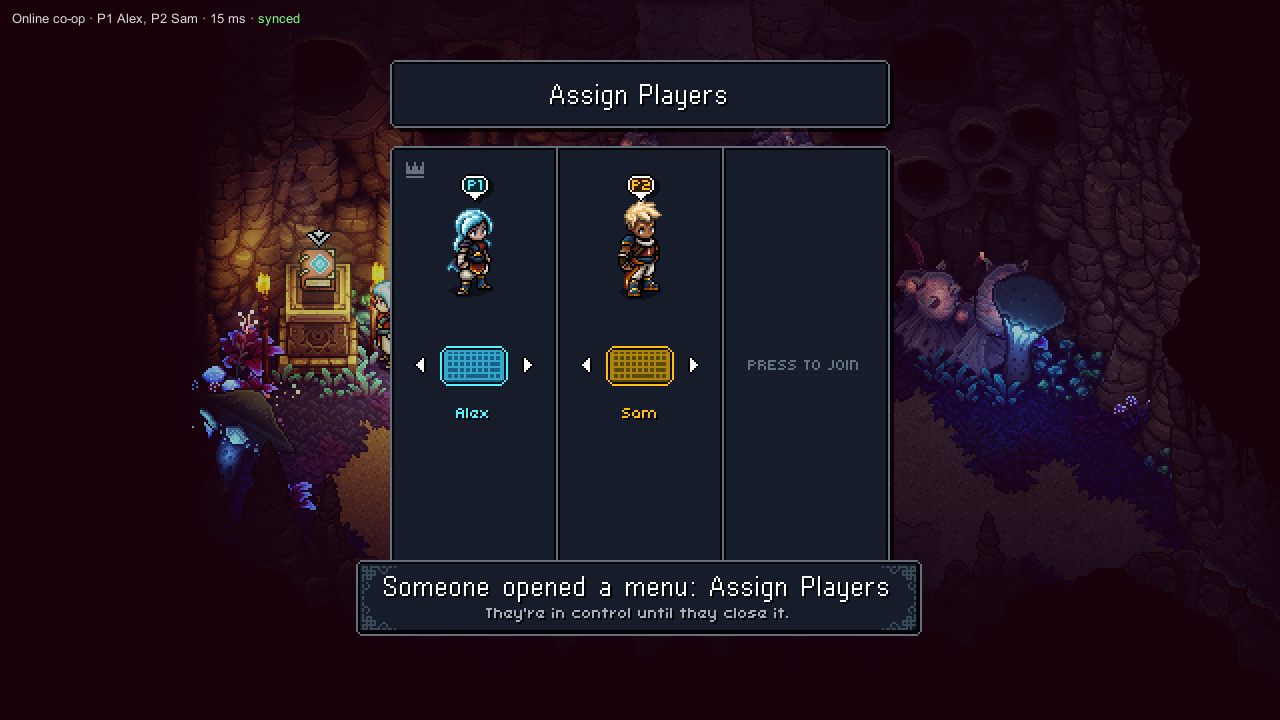
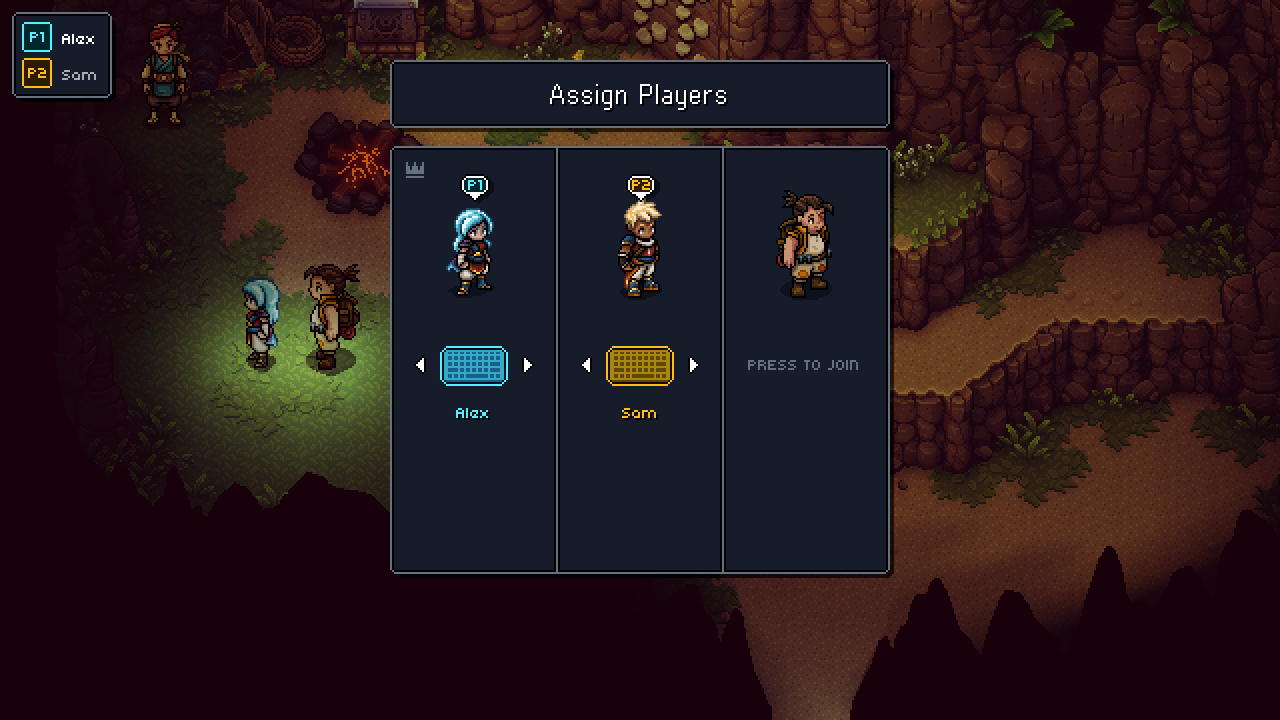
Docs: new README screenshots with the player bar and Host Settings
The old ones showed the top status line, the old Online options and a
modified build's version line. The screenshot script's title-screen run
now uses the players' default Rejoin setting instead of the test-only
Catch Up.

diff --git a/README.md b/README.md
@@ -19,7 +19,7 @@ Play **Sea of Stars: Sunset Edition** co-op online with your Steam friends. The 
 
 | | |
 |---|---|
-| ![The Online page on the title screen](docs/screenshots/online-menu.png) | ![Online options, with help text](docs/screenshots/online-options.png) |
+| ![The Online page on the title screen](docs/screenshots/online-menu.png) | ![Host Settings, with help text](docs/screenshots/online-options.png) |
 | ![Assign Players, online](docs/screenshots/assign-players.png) | ![A battle with two players](docs/screenshots/battle.png) |
 | ![Three players in one game](docs/screenshots/three-players.png) | ![Two players exploring, in sync](docs/screenshots/two-players.png) |
 
